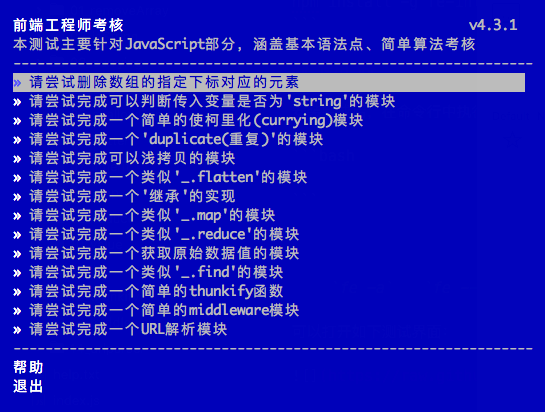
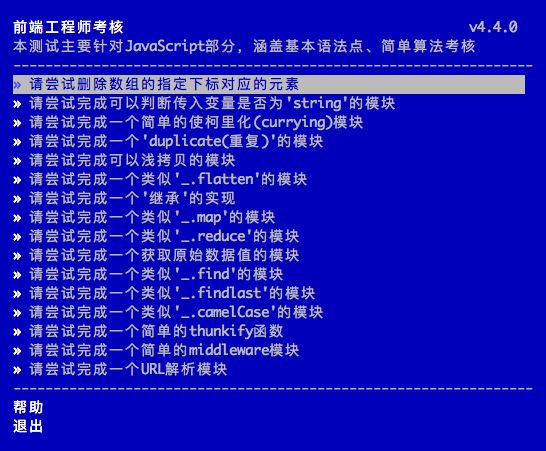
add new exams

Changed region(s): [[0.0, 0.0291, 0.9982, 0.9612]]

diff --git a/bin/questions/12_findlast/Test.js b/bin/questions/12_findlast/Test.js
@@ -1,0 +1,58 @@
+'use strict';
+
+var assert = require('assert');
+
+describe('test basic findlast', function() {
+
+    var path = require('path');
+    var findlast = require(path.resolve(process.cwd(), 'findlast', 'index'));
+
+    it('basic test', function() {
+        var arr1 = [
+            'nan',
+            'feng',
+            'hao',
+            'li'
+        ];
+
+        var res = findlast(arr1, function(i) {
+            return i === 'hao';
+        });
+        assert.equal('hao', res, '基本测试失败');
+    });
+
+    it('only first matched element should returned', function() {
+        var arr1 = [
+            1,
+            2,
+            4,
+            5,
+            6
+        ];
+
+        var res = findlast(arr1, function(i) {
+            return i < 5;
+        });
+        assert.equal(4, res, '必须返回最后一个匹配元素');
+    });
+
+    it('object array should also work', function() {
+        var arr1 = [
+            {
+                name: 'HanMeimei'
+            },
+            {
+                name: 'LiLei'
+            },
+            {
+                name: 'ErDan'
+            }
+        ];
+
+        var res = findlast(arr1, function(i) {
+            return i.name.indexOf('e') > -1;
+        });
+        assert.deepEqual({name: 'LiLei'}, res, '对象元素测试失败');
+    });
+
+});

diff --git a/bin/questions/13_camelcase/Test.js b/bin/questions/13_camelcase/Test.js
@@ -1,0 +1,34 @@
+'use strict';
+
+var assert = require('assert');
+
+describe('test basic camelcase', function() {
+
+    var path = require('path');
+    var camelcase = require(path.resolve(process.cwd(), 'camelcase', 'index'));
+
+    it('basic test', function() {
+        assert.equal('helloworld', camelcase('helloworld'), '基本测试失败');
+    });
+
+    it('with one whitespace as separater', function() {
+        assert.equal('helloWorld', camelcase('hello world'), '单空格测试失败');
+    });
+
+    it('with one whitespace as separater, multiple words', function() {
+        assert.equal('howAreYou', camelcase('how are you'), '单空格多单词测试失败');
+    });
+
+    it('with multiple whitespaces as separater', function() {
+        assert.equal('howAreYou', camelcase('how   are   you'), '多空格测试失败');
+    });
+
+    it('with one dash as separater', function() {
+        assert.equal('whatTheFuck', camelcase('what-the-fuck'), '横杠做分隔符测试失败');
+    });
+
+    it('mix with dash and whitespace as separater', function() {
+        assert.equal('iWillMissThisExam', camelcase('i  will-miss this----exam'), '混合测试失败');
+    });
+
+});

diff --git a/bin/questions/12_findlast/answer.js b/bin/questions/12_findlast/answer.js
@@ -1,0 +1,34 @@
+'use strict';
+
+/**
+ *
+ *  尝试完成如下功能：
+ *
+ *  var arr1 = [3, 6, 9];
+ *
+ *  var found1 = findlast(arr1, function(i){
+ *      return i > 3;
+ *  });
+ *
+ *  console.log(found1); // 9
+ *
+ *  var arr2 = [{ name: 'ShangHai', size: 6340.5 }, { name: 'BeiJing', size: 16410.54 }];
+ *
+ *  var found2 = findlast(arr2, function(i){
+ *      return i.name.indexOf('i');
+ *  });
+ *
+ *  console.log(found2); // { name: 'BeiJing', size: 16410.54 }
+ *
+ **/
+var findlast = function(array, func) {
+    var found;
+    array.forEach(function(i, index) {
+        if (func(i, index)) {
+            found = i;
+        }
+    });
+    return found;
+};
+
+module.exports = findlast;

diff --git a/bin/questions/12_findlast/index.js b/bin/questions/12_findlast/index.js
@@ -1,0 +1,28 @@
+'use strict';
+
+/**
+ *
+ *  尝试完成如下功能：
+ *
+ *  var arr1 = [3, 6, 9];
+ *
+ *  var found1 = findlast(arr1, function(i){
+ *      return i > 3;
+ *  });
+ *
+ *  console.log(found1); // 9
+ *
+ *  var arr2 = [{ name: 'ShangHai', size: 6340.5 }, { name: 'BeiJing', size: 16410.54 }];
+ *
+ *  var found2 = findlast(arr2, function(i){
+ *      return i.name.indexOf('i');
+ *  });
+ *
+ *  console.log(found2); // { name: 'BeiJing', size: 16410.54 }
+ *
+ **/
+var findlast = function(array, func) {
+    //在这里实现
+};
+
+module.exports = findlast;

diff --git a/bin/questions/13_camelcase/Task.js b/bin/questions/13_camelcase/Task.js
@@ -1,0 +1,21 @@
+'use strict';
+
+var Base = require('../../libs/Base');
+
+var utils = require('../../libs/Utils');
+
+var Question = Base.extend({
+    id: 'camelcase',
+    name: '请尝试完成一个类似\'_.camelCase\'的模块',
+    prepare: function() {
+        var path = require('path');
+        var index = path.resolve(process.cwd(), this.id, 'index.js');
+        if (utils.fileExist(index)) {
+            return;
+        }
+        utils.copyFile(path.resolve(__dirname, 'index.js'), index);
+    }
+});
+
+
+module.exports = Question;

diff --git a/bin/questions/13_camelcase/answer.js b/bin/questions/13_camelcase/answer.js
@@ -1,0 +1,23 @@
+'use strict';
+
+/**
+ *
+ *  尝试完成如下功能：
+ *
+ *  console.log(camelcase('HELLO WORLD')); // helloWorld
+ *
+ *  console.log(camelcase('HELLO         WORLD')); // helloWorld
+ *
+ *  console.log(camelcase('drunkman')); // drunkman
+ *
+ *  console.log(camelcase('hi----you')); // hiYou
+ *
+ **/
+var camelcase = function(str) {
+    return str.toLowerCase()
+        .replace(/(\s+|-+)(.)/g, function(matched, separator, letter) {
+            return letter.toUpperCase();
+        });
+};
+
+module.exports = camelcase;

diff --git a/bin/questions/12_findlast/Task.js b/bin/questions/12_findlast/Task.js
@@ -1,0 +1,21 @@
+'use strict';
+
+var Base = require('../../libs/Base');
+
+var utils = require('../../libs/Utils');
+
+var Question = Base.extend({
+    id: 'findlast',
+    name: '请尝试完成一个类似\'_.findlast\'的模块',
+    prepare: function() {
+        var path = require('path');
+        var index = path.resolve(process.cwd(), this.id, 'index.js');
+        if (utils.fileExist(index)) {
+            return;
+        }
+        utils.copyFile(path.resolve(__dirname, 'index.js'), index);
+    }
+});
+
+
+module.exports = Question;

diff --git a/bin/questions/13_camelcase/index.js b/bin/questions/13_camelcase/index.js
@@ -1,0 +1,20 @@
+'use strict';
+
+/**
+ *
+ *  尝试完成如下功能：
+ *
+ *  console.log(camelcase('HELLO WORLD')); // helloWorld
+ *
+ *  console.log(camelcase('HELLO         WORLD')); // helloWorld
+ *
+ *  console.log(camelcase('drunkman')); // drunkman
+ *
+ *  console.log(camelcase('hi----you')); // hiYou
+ *
+ **/
+var camelcase = function(str) {
+    //在这里实现
+};
+
+module.exports = camelcase;
